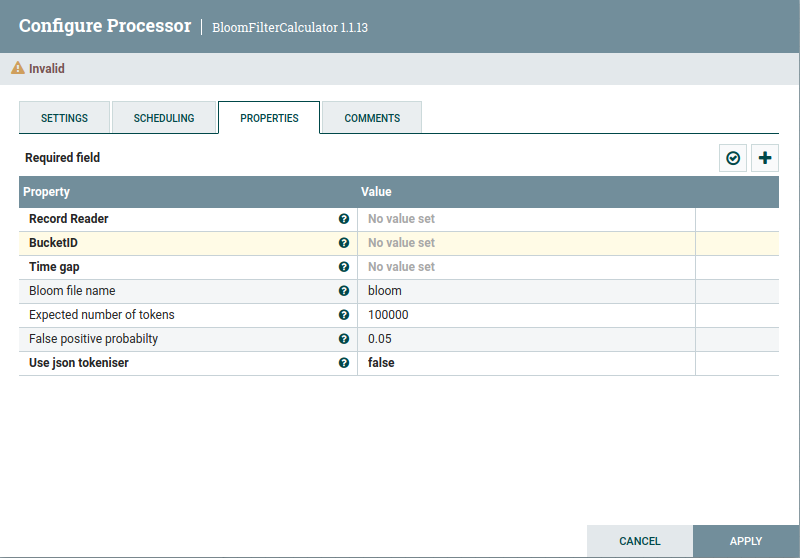
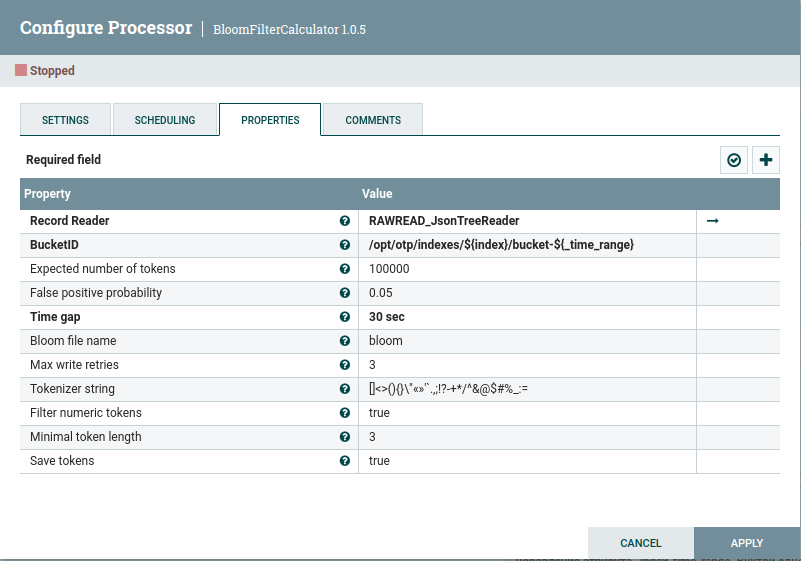
updated docs for

diff --git a/nifi_tools-processors/src/main/java/com/isgneuro/nifi/tools/bloom/BloomFilterCalculator.java b/nifi_tools-processors/src/main/java/com/isgneuro/nifi/tools/bloom/BloomFilterCalculator.java
@@ -126,7 +126,7 @@ public class BloomFilterCalculator extends AbstractProcessor {
 
     static final PropertyDescriptor MIN_TOKEN_LENGTH = new PropertyDescriptor.Builder()
             .name("Minimal token length")
-            .description("shorter tokens will not be added to the bloom filter")
+            .description("Shorter tokens will not be added to the bloom filter")
             .defaultValue(String.valueOf(StringSegmenter.DEFAULT_MIN_TOKEN_LENGTH))
             .addValidator(StandardValidators.POSITIVE_INTEGER_VALIDATOR)
             .required(false)

diff --git a/docs/Processors.md b/docs/Processors.md
@@ -7,7 +7,7 @@ Some processors are designed from the ground up, some extend the functionality o
 
 
 ### AddRaw
-<p align="center"><a href="AddRaw.png"><img src="images/AddRaw.png" width="600" /></a></p>
+<p align="center"><a href="images/AddRaw.png"><img src="images/AddRaw.png" width="600" /></a></p>
  
 Description: Adds _raw field. 
 
@@ -22,7 +22,7 @@ Properties (default values are in parentheses):
 The processor logic allows the use of only one of the properties 'Field list' and 'Ignore list'. if both 'Field list' and 'Ignore list' are empty then all record fields will be added to _raw field.
 
 ### BloomFilterCalculator
-<p align="center"><a href="BloomFilterCalculator.png"><img src="images/BloomFilterCalculator.png" width="600" /></a></p>
+<p align="center"><a href="images/BloomFilterCalculator.png"><img src="images/BloomFilterCalculator.png" width="600" /></a></p>
 
 Description: Aggregate value of BloomFilter processed in the current session time window.
 
@@ -43,16 +43,7 @@ For all files with same BucketID processor creates one bloom filter file (bitmap
 !!! Filters contained in memory are not shared between processor instances (if you use greater than 1 concurrent tasks). Data exchange between processor instances is implemented through the state methods and only allows you to avoid simultaneous writing of files by several processors (it doesn’t matter whether the BucketID is the same or not, that is, the same directory or not).
 
 
-Tokens are obtained from the _raw fields of Flow-file data by parsing this field with regular expressions or using json parser.
-There are no significant differences between these methods. With parsing _raw with regular expressions you will get additional tokens 
-
-```
-metric_long
-long
-metric
-name
-```
-As you can see, the names of the metric_name and metric_long_name fields are split into separate words. Therefore, when working with unstructured data, it is better to use regular expressions (json tokenizer = false), and when working with key-value records, it is better to use the json parsing (json tokenizer = true)
+Tokens are obtained from the _raw field of Flow-file data records
 
 
 Extends: AbstractProcessor
@@ -66,14 +57,25 @@ Properties (default values are in parentheses):
 ```
 
 where index and _time_range are attributes of Flow-file.
-3. Time gap (10 sec).
-4. Bloom file name (bloom).
-5. Expected number of tokens (100000). Estimated number of distinct tokens in the data. The probability of a false positive is calculated based on the insertion of a given number of elements.
-6. False positive probabilty (0.05). The probability of a false positive after insertion N elements, where N is Expected number of tokens.
-7. Use json tokenizer (true)
+3. Expected number of tokens (100000). Estimated number of distinct tokens in the data. The probability of a false positive is calculated based on the insertion of a given number of elements.
+4. False positive probabilty (0.05). The probability of a false positive after insertion N elements, where N is Expected number of tokens.
+5. Time gap (10 sec). If records for bucketId doest arrive for this time, bloom is calculated.
+6. Bloom file name (bloom). This name must be set in dispatcher's config.
+7. Max write retries (3). Maximum number of bloom filter file write retries on error.
+8. Tokenizing string. The set of characters by which the string is split into tokens. Default value as
+
+```
+\r\n\t[]<>(){}\"«»'`.,;!?-+*/^&@$#%_:= 
+```
+
+Tokenizer splits the _raw field of record by each of the specified characters, additionally, through regular expressions, are extracted ip addresses, datetime values, emails.
+
+9. Filter numeric tokens (true). If set to 'true', bloom tokens that are numbers will be removed.
+10. Minimal token length (3). Shorter tokens will not be added to the bloom filter.
+11. Save tokens (true). If set to 'true', bloom tokens will be written to separate txt file in bucket directory (bloom file name with txt extension). Increases data processing time.
 
 ### JSONParseRecord
-<p align="center"><a href="JSONParseRecord.png"><img src="images/JSONParseRecord.png" width="600" /></a></p>
+<p align="center"><a href="images/JSONParseRecord.png"><img src="images/JSONParseRecord.png" width="600" /></a></p>
 
 Description: Updates the contents of a FlowFile that contains Record-oriented data (i.e., data that can be read via a RecordReader and written by a RecordWriter). This Processor requires that at least one user-defined Property be added. The name of the Property should indicate a RecordPath that determines the field that should be updated. The value of the Property is either a replacement value (optionally making use of the Expression Language) or is itself a RecordPath that extracts a value from the Record. Whether the Property value is determined to be a RecordPath or a literal value depends on the configuration of the <Replacement Value Strategy> Property.
 
@@ -91,7 +93,7 @@ Properties (default values are in parentheses):
 9. Illegal characters replace (true)
 
 ### JSONSParseRecord
-<p align="center"><a href="JSONSParseRecord.png"><img src="images/JSONSParseRecord.png" width="600" /></a></p>
+<p align="center"><a href="images/JSONSParseRecord.png"><img src="images/JSONSParseRecord.png" width="600" /></a></p>
 
 Description: Updates the contents of a FlowFile that contains Record-oriented data (i.e., data that can be read via a RecordReader and written by a RecordWriter). This Processor requires that at least one user-defined Property be added. The name of the Property should indicate a RecordPath that determines the field that should be updated. The value of the Property is either a replacement value (optionally making use of the Expression Language) or is itself a RecordPath that extracts a value from the Record. Whether the Property value is determined to be a RecordPath or a literal value depends on the configuration of the <Replacement Value Strategy> Property.
 
@@ -110,7 +112,7 @@ Properties (default values are in parentheses):
 10. Print overdepth fields as text (true)
 
 ### KVParseRecord
-<p align="center"><a href="KVParseRecord.png"><img src="images/KVParseRecord.png" width="600" /></a></p>
+<p align="center"><a href="images/KVParseRecord.png"><img src="images/KVParseRecord.png" width="600" /></a></p>
 
 Description: Updates the contents of a FlowFile that contains Record-oriented data (i.e., data that can be read via a RecordReader and written by a RecordWriter). This Processor requires that at least one user-defined Property be added. The name of the Property should indicate a RecordPath that determines the field that should be updated. The value of the Property is either a replacement value (optionally making use of the Expression Language) or is itself a RecordPath that extracts a value from the Record. Whether the Property value is determined to be a RecordPath or a literal value depends on the configuration of the <Replacement Value Strategy> Property.
 
@@ -128,7 +130,7 @@ Properties (default values are in parentheses):
 
 
 ### ListenTCPRecordWithDump
-<p align="center"><a href="ListenTCPRecordWithDump.png"><img src="images/ListenTCPRecordWithDump.png" width="600" /></a></p>
+<p align="center"><a href="images/ListenTCPRecordWithDump.png"><img src="images/ListenTCPRecordWithDump.png" width="600" /></a></p>
 
 Description: Listens for incoming TCP connections and reads data from each connection using a configured record reader, and writes the records to a flow file using a configured record writer. The type of record reader selected will determine how clients are expected to send data. For example, when using a Grok reader to read logs, a client can keep an open connection and continuously stream data, but when using an JSON reader, the client cannot send an array of JSON documents and then send another array on the same connection, as the reader would be in a bad state at that point. Records will be read from the connection in blocking mode, and will timeout according to the Read Timeout specified in the processor. If the read times out, or if any other error is encountered when reading, the connection will be closed, and any records read up to that point will be handled according to the configured Read Error Strategy (Discard or Transfer). In cases where clients are keeping a connection open, the concurrent tasks for the processor should be adjusted to match the Max Number of TCP Connections allowed, so that there is a task processing each connection.
 
@@ -136,7 +138,7 @@ Extends: AbstractProcessor. Judging by the source code, it was written based on 
 
 
 ### MergeRecordNoAvro
-<p align="center"><a href="MergeRecordNoAvro.png"><img src="images/MergeRecordNoAvro.png" width="600" /></a></p>
+<p align="center"><a href="images/MergeRecordNoAvro.png"><img src="images/MergeRecordNoAvro.png" width="600" /></a></p>
 
 Description: None
 
@@ -145,14 +147,14 @@ Extends: MergeRecord
 Properties: None. All properties are inherited from the MergeRecord processor.
 
 ### PutParquetNoAvro
-<p align="center"><a href="PutParquetNoAvro.png"><img src="images/PutParquetNoAvro.png" width="600" /></a></p>
+<p align="center"><a href="images/PutParquetNoAvro.png"><img src="images/PutParquetNoAvro.png" width="600" /></a></p>
 
 Description: Reads records from an incoming FlowFile using the provided Record Reader, and writes those records to a Parquet file. The schema for the Parquet file must be provided in the processor properties. This processor will first write a temporary dot file and upon successfully writing every record to the dot file, it will rename the dot file to it's final name. If the dot file cannot be renamed, the rename operation will be attempted up to 10 times, and if still not successful, the dot file will be deleted and the flow file will be routed to failure. If any error occurs while reading records from the input, or writing records to the output, the entire dot file will be removed and the flow file will be routed to failure or retry, depending on the error.
 
 Extends: AbstractPutHDFSRecord. Judging by the source code, it was written based on the source of the <a href="https://github.com/apache/nifi/blob/main/nifi-nar-bundles/nifi-parquet-bundle/nifi-parquet-processors/src/main/java/org/apache/nifi/processors/parquet/PutParquet.java">PutParquet processor</a>. <a href="https://nifi.apache.org/docs/nifi-docs/components/org.apache.nifi/nifi-parquet-nar/1.15.3/org.apache.nifi.processors.parquet.PutParquet/index.html">Description of PutParquet processor</a>
 
 ### RecordEditSchema
-<p align="center"><a href="RecordEditSchema.png"><img src="images/RecordEditSchema.png" width="600" /></a></p>
+<p align="center"><a href="images/RecordEditSchema.png"><img src="images/RecordEditSchema.png" width="600" /></a></p>
 
 Description: Updates the contents of a FlowFile that contains Record-oriented data (i.e., data that can be read via a RecordReader and written by a RecordWriter). This Processor requires that at least one user-defined Property be added. The name of the Property should indicate a RecordPath that determines the field that should be updated. The value of the Property is either a replacement value (optionally making use of the Expression Language) or is itself a RecordPath that extracts a value from the Record. Whether the Property value is determined to be a RecordPath or a literal value depends. User-defined properties values must contain new data type for record field. Use 'drop' or empty string for remove field from record.
 
